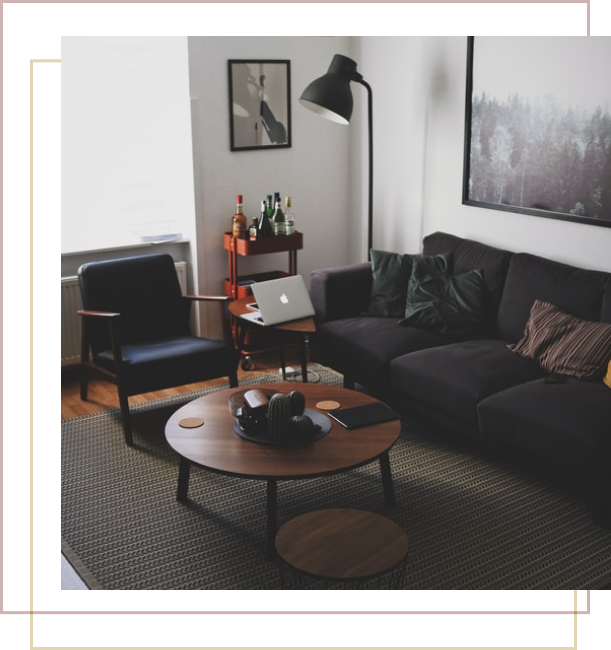
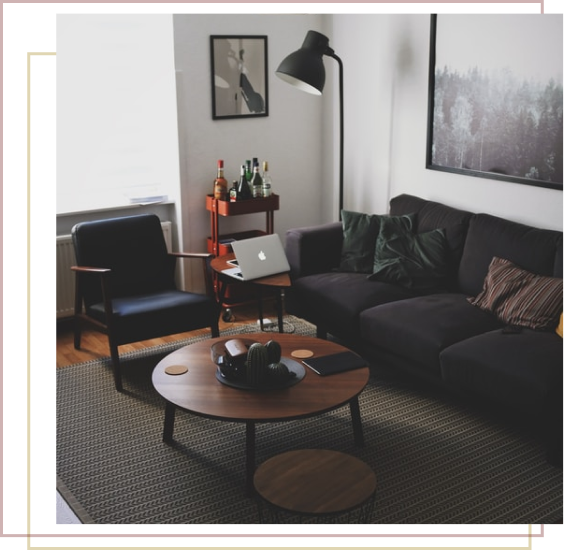
Add collection section, collection cards, images

diff --git a/index.html b/index.html
@@ -46,13 +46,47 @@
         <section class="mt-lg-5 mt-3" id="capa">
             <div class="container">
                 <div class="row">
-                    <div class="col-md-6 my-lg-5 my-3 order-2 order-lg-0 align-self-center">
+                    <div class="col-md-6 my-lg-1 my-1 order-2 order-lg-0 align-self-center">
                         <h2 class="cor-azul mb-3 fs-1">Sobre o MundoArt.</h2>
                         <p class="cor-dourado">Lorem ipsum dolor sit amet consectetur adipisicing elit. Id, vel pariatur consequatur doloribus tempora aliquid sit voluptates consectetur ex laboriosam molestias nostrum, dolor ab deleniti, temporibus unde ducimus architecto! Velit.</p>
                         <p class="cor-dourado">Lorem ipsum dolor sit amet consectetur adipisicing elit. Id, vel pariatur consequatur doloribus tempora aliquid sit voluptates consectetur ex laboriosam molestias nostrum, dolor ab deleniti, temporibus unde ducimus architecto! Velit.</p>
                     </div>
-                    <div class="col-md-6 order-1">
+                    <div class="col-md-6 order-1 my-3">
                         <img class="d-block w-100" src="img/img-capa.png" alt="Foto de uma sala de estar">
+                    </div>
+                </div>
+            </div>
+        </section>
+        <section class="mt-lg-5 mt-3" id="colecoes">
+            <div class="container">
+                <h2 class="text-center cor-dourado bg-azul py-3 fs-1">Capsule Collection 2024</h2>
+                <div class="row justify-content-between">
+                    <div class="col-md-4">
+                        <div class="card">
+                            <div class="card-body">
+                                <h3 class="card-title cor-azul fw-bold text-center my-2 fs-2">Collection</h3>
+                                <p class="card-text cor-dourado fs-4">Lorem ipsum dolor sit amet consectetur, adipisicing elit. Autem delectus at, eius ipsam expedita minus vero atque amet ipsum corporis.</p>
+                            </div>
+                            <img src="img/card-1.png" class="card-img-top" alt="Foto de uma sala de estar.">
+                        </div>
+                    </div>
+                    <div class="col-md-4">
+                        <div class="card">
+                            <div class="card-body">
+                                <h3 class="card-title cor-azul fw-bold text-center my-2 fs-2">Collection</h3>
+                                <p class="card-text cor-dourado fs-4">Lorem ipsum dolor sit amet consectetur, adipisicing elit. Autem delectus at, eius ipsam expedita minus vero atque amet ipsum corporis.</p>
+                            </div>
+                            <img src="img/card-2.png" class="card-img-top" alt="Foto de uma sala de estar.">
+                        </div>
+                    </div>
+                    <div class="col-md-4">
+                        <div class="card">
+                            <div class="card-body">
+                                <h3 class="card-title cor-azul fw-bold text-center my-2 fs-2">Collection</h3>
+                                <p class="card-text cor-dourado fs-4">Lorem ipsum dolor sit amet consectetur, adipisicing elit. Autem delectus at, eius ipsam expedita minus vero atque amet ipsum corporis.</p>
+                            </div>
+                            <img src="img/card-3.png" class="card-img-top" alt="Foto de uma sala de estar.">
+                        </div>
                     </div>
                 </div>
             </div>

diff --git a/css/main.css b/css/main.css
@@ -19,16 +19,29 @@ body,
     color: #1B3058;
 }
 
+.bg-azul {
+    background-color: #1B3058;
+}
+
 .nav .nav-item .nav-link.active {
     background-color: #967500;
     color: #D7E0C9;
 }
 
-section#capa {
+main {
     background: url('../img/bg-effect.png') no-repeat center top fixed;
     background-size: cover;
 }
 
 section#capa p {
     font-size: 1.5em;
+}
+
+section#colecoes .card {
+    background-color: transparent;
+    border: none;
+}
+
+section#colecoes .card img{
+    border-radius: 0;
 }
